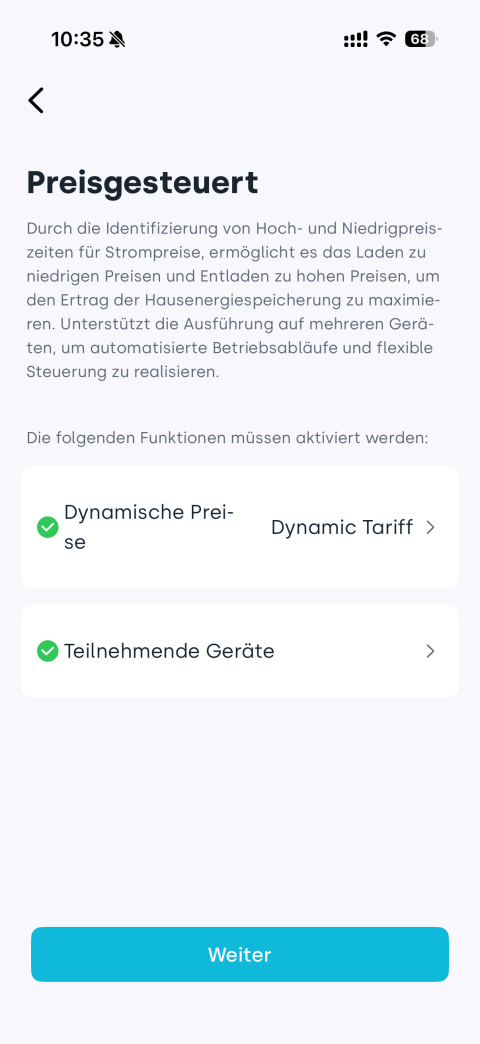
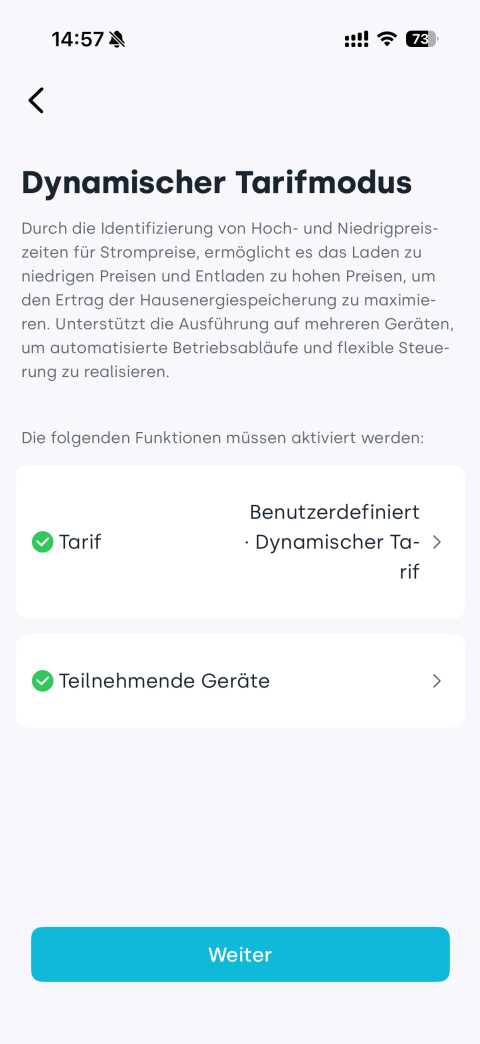
Update dynamic pricing mode

diff --git a/i18n/fr/docusaurus-plugin-content-docs/current/EnergyEase/smart.md b/i18n/fr/docusaurus-plugin-content-docs/current/EnergyEase/smart.md
@@ -79,22 +79,27 @@ En état inactif, la batterie ne décharge pas activement et l’excédent photo
 1. Cliquez sur **Mode de tarification dynamique** en haut à droite <img src={require("./img/settings_icon.png").default} width="30" style={{verticalAlign: "middle"}}/>。
 2. Vérifiez que les configurations suivantes sont terminées：  
 
-   ✅ **Tarif dynamique** configuré  
-   ✅ Appareils ajoutés à la stratégie  
+   ✅ Le [**tarif dynamique**](./profile.md#31-ajouter-un-tarif-délectricité) est configuré  
+   ✅ Des équipements pouvant participer à la stratégie ont été ajoutés  
 
    Si ce n’est pas le cas, cliquez sur la zone correspondante pour configurer, puis cliquez sur **Suivant**。
 
-3. Définissez le **prix cible** déclenchant la charge/décharge：
+3. Définissez le **[prix cible](#ajuster-le-prix-cible)** déclenchant la charge/décharge：
    - Modes manuel / automatique / intelligent pris en charge  
-   - Choisissez la **stratégie lorsque les conditions ne sont pas remplies**（autoconsommation / inactif） 
+   - Choisissez la **stratégie de secours** (autoconsommation / verille) 
  
    Une fois terminé, cliquez sur **Suivant**。
 
 4. Sélectionnez les **appareils participant à la stratégie**, puis cliquez sur **Suivant**。
-   > （Optionnel）Cliquez sur **⚙ Paramètres avancés** pour configurer le [mode de fonctionnement](#11-设备如何运行) selon les périodes de prix  
+   > （Optionnel）Cliquez sur **⚙ Paramètres avancés** pour configurer le [mode de fonctionnement](#11-fonctionnement-de-lappareil) selon les périodes de prix  
    
 5. Prévisualisez le plan de charge/décharge, puis cliquez sur **Activer**。
 
+<img src={require("./img/smart.png").default} width="240"/>
+<img src={require("./img/strategy_requirements.png").default} width="240"/>
+<img src={require("./img/price_setting.png").default} width="240"/>
+<img src={require("./img/select_strategy_device.png").default} width="240"/>
+<img src={require("./img/preview_strategy.png").default} width="240"/>
 
 ### 1.3 Voir la stratégie
 
@@ -171,7 +176,7 @@ Le mode IA analyse les données historiques pour prédire intelligemment la **pr
 4. Sélectionnez les **équipements participant à la stratégie**, puis cliquez sur **Suivant**.  
 5. Prévisualisez les prévisions générées par le système, puis cliquez sur **Activer** pour activer le mode IA.  
 
-<img src={require("./img/set_ai_mode.png").default} width="240"/>
+<img src={require("./img/smart.png").default} width="240"/>
 <img src={require("./img/ai_mode_conditions.png").default} width="240"/>
 <img src={require("./img/ai_mode_address.png").default} width="240"/>
 <img src={require("./img/ai_mode_device.png").default} width="240"/>

diff --git a/docs/EnergyEase/smart.md b/docs/EnergyEase/smart.md
@@ -80,24 +80,27 @@ In idle state, the battery does not actively discharge, and surplus PV energy is
 1. Tap the <img src={require("./img/settings_icon.png").default} width="30" style={{verticalAlign: "middle"}}/> icon in the top-right corner of the **Dynamic Pricing Mode** module.  
 2. Make sure the following are set up:  
 
-   ✅ **Dynamic tariff** has been configured  
+   ✅ **[Dynamic tariff](./profile.md#31-add-electricity-price)** has been configured  
    ✅ Devices participating in the strategy have been added  
 
    If not, complete the setup and tap **Next**.  
 
-3. Set the **target price** to trigger charging/discharging:  
-   - Manual / Automatic / Smart modes are supported  
+3. Set the **[target price](#adjust-target-price)** to trigger charging/discharging:  
+   - Manual / Auto / Smart modes are supported  
    - Choose the **fallback strategy** (Self-consumption / Idle) when conditions are not met  
 
    Then tap **Next**.  
 
-4. Select the **devices to include in the strategy**, then tap **Next**.  
-   > (Optional) Tap **⚙ Advanced Settings** to configure operating modes for different price periods  
+4. Select the **device for the strategy**, then tap **Next**.  
+   > (Optional) Tap **⚙ Advanced Settings** to configure [operating modes](#11-how-the-device-operates) for different price periods  
 
 5. Preview the plan and tap **Enable** to activate it.  
 
 <img src={require("./img/smart.png").default} width="240"/>
-
+<img src={require("./img/strategy_requirements.png").default} width="240"/>
+<img src={require("./img/price_setting.png").default} width="240"/>
+<img src={require("./img/select_strategy_device.png").default} width="240"/>
+<img src={require("./img/preview_strategy.png").default} width="240"/>
 
 
 ### 1.3 View Strategy
@@ -171,7 +174,7 @@ AI Mode uses historical data to intelligently predict **PV generation** and **ho
    If not completed, tap the corresponding section to configure it, then tap **Next**.  
 
 3. If the system detects PV information, add the **address** and **PV details**. If not, check whether there are PV devices not connected to the platform to ensure prediction accuracy. Tap **Next**.  
-   > (Optional) Tap **⚙ Advanced Settings** to configure the [price spread](#modify-price-spread).  
+   > (Optional) Tap **⚙ Advanced Settings** to configure the [price spread](#modify-price-difference).  
 
 4. Select the **devices participating in the strategy**, then tap **Next**.  
 5. Preview the system-generated forecast, then tap **Enable** to activate AI Mode.  

diff --git a/i18n/de/docusaurus-plugin-content-docs/current/EnergyEase/smart.md b/i18n/de/docusaurus-plugin-content-docs/current/EnergyEase/smart.md
@@ -79,23 +79,27 @@ In der Standardzeit entlädt die Batterie nicht aktiv. Überschüssige PV-Energi
 1. Klicken Sie im Modul **Dynamischer Tarifmodus** oben rechts auf <img src={require("./img/settings_icon.png").default} width="30" style={{verticalAlign: "middle"}}/>.  
 2. Stellen Sie sicher, dass folgende Konfigurationen abgeschlossen sind:  
 
-   ✅ [**Dynamischer Strompreis**](./profile.md#31-添加电价) eingerichtet  
+   ✅ [**Dynamischer Strompreis**](./profile.md#31-stromtarif-hinzufügen) eingerichtet  
    ✅ Geräte für die Strategie hinzugefügt  
 
    Falls nicht, konfigurieren Sie diese und klicken Sie auf **Weiter**.  
 
-3. Legen Sie den **[Zielpreis](#调整目标价格)** fest:  
+3. Legen Sie den **[Zielpreis](#zielpreis-anpassen)** fest:  
    - Manuell / Automatisch / Intelligent  
-   - Strategie bei Nichterfüllung wählen (Eigenverbrauch / Ruhemodus)  
+   - Strategie bei Nichterfüllung wählen (Eigenverbrauch / Leerlauf)  
 
    Danach auf **Weiter** klicken.  
 
 4. Geräte auswählen und **Weiter** klicken.  
-   > (Optional) Über **⚙ Erweiterte Einstellungen** den [Betriebsmodus](#11-设备如何运行) konfigurieren  
+   > (Optional) Über **⚙ Erweiterte Einstellungen** den [Betriebsmodus](#11-gerätebetrieb) konfigurieren  
 
 5. Lade-/Entladeplan prüfen und mit **Aktivieren** bestätigen.  
 
-
+<img src={require("./img/smart.png").default} width="240"/>
+<img src={require("./img/strategy_requirements.png").default} width="240"/>
+<img src={require("./img/price_setting.png").default} width="240"/>
+<img src={require("./img/select_strategy_device.png").default} width="240"/>
+<img src={require("./img/preview_strategy.png").default} width="240"/>
 
 
 ### 1.3 Strategie anzeigen
@@ -171,7 +175,7 @@ Der KI-Modus nutzt historische Daten, um die **Photovoltaik-Erzeugung** und den 
 4. Wählen Sie die **an der Strategie teilnehmenden Geräte** aus und tippen Sie auf **Weiter**.  
 5. Sehen Sie sich die vom System generierte Vorschau an und tippen Sie auf **Aktivieren**, um den KI-Modus zu starten.  
 
-<img src={require("./img/set_smart_mode.png").default} width="240"/>
+<img src={require("./img/smart.png").default} width="240"/>
 <img src={require("./img/ai_mode_conditions.png").default} width="240"/>
 <img src={require("./img/ai_mode_address.png").default} width="240"/>
 <img src={require("./img/ai_mode_device.png").default} width="240"/>
